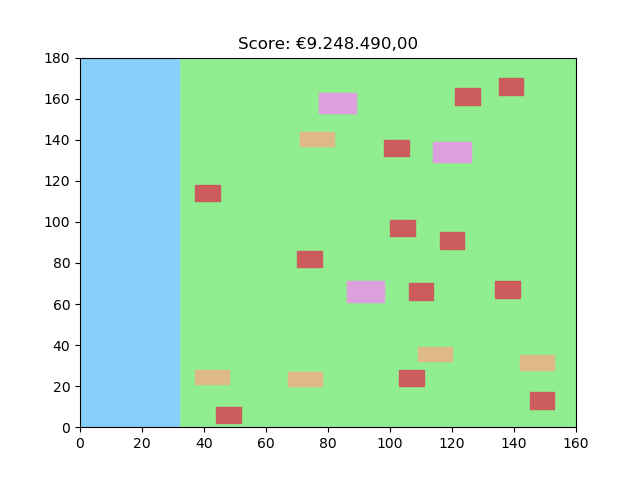
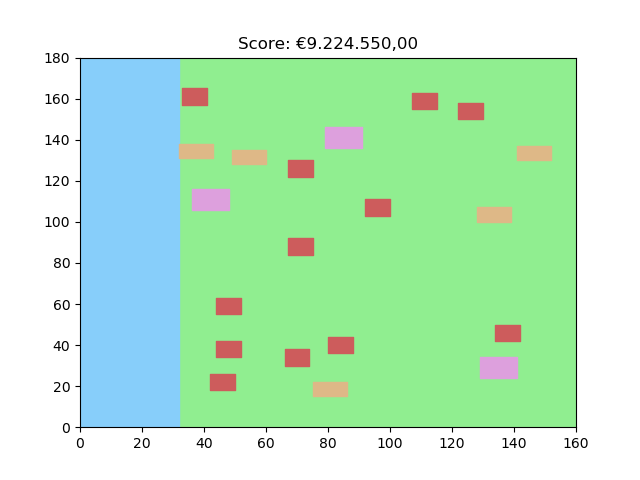
hillclimber niet veel bereikt

diff --git a/code/algorithms/hillclimber.py b/code/algorithms/hillclimber.py
@@ -15,7 +15,7 @@ from code.helpers.score import scorecalculator
 from code.helpers.visualize import visualise
 from code.helpers.builder import waterbuilder, housebuilder
 from code.helpers.location import location_checker
-from code.classes.objects import *
+from code.classes.objects import Borders
 
 def hillclimber_algorithm(iterations, water_layout, max_houses):
 
@@ -41,27 +41,29 @@ def hillclimber_algorithm(iterations, water_layout, max_houses):
         temp_neighbourhood = deepcopy(neighbourhood)
 
         # choose a random house
-        random_house = rd.choice(temp_neighbourhood)
-
-        while random_house.name == "WATER":
-            random_house = rd.choice(temp_neighbourhood)
+        random_house = rd.choice([h for h in temp_neighbourhood if h.name != "WATER"])
+        temp_neighbourhood.remove(random_house)
 
         # choose a random new location for this house
         random_x = rd.randrange(random_house.free_area, (Borders().maxX - random_house.free_area - random_house.width))
         random_y = rd.randrange(random_house.free_area, (Borders().maxY - random_house.free_area - random_house.width))
         random_house.x0 = random_x
         random_house.y0 = random_y
-        random_house.x1 = random_house.free_area + random_x
-        random_house.y1 = random_house.free_area + random_y
+        random_house.x1 = random_house.width + random_x
+        random_house.y1 = random_house.length + random_y
+        random_house.coordinates = (random_x, random_y)
+
+        temp_neighbourhood.append(random_house)
 
         # use location checker to check whether it is allowed to place the house here
-        while location_checker(random_house, temp_neighbourhood) == False:
+        """while location_checker(random_house, temp_neighbourhood) == False:
             random_x = rd.randrange(random_house.free_area, (Borders().maxX - random_house.free_area - random_house.width))
             random_y = rd.randrange(random_house.free_area, (Borders().maxY - random_house.free_area - random_house.width))
             random_house.x0 = random_x
             random_house.y0 = random_y
-            random_house.x1 = random_house.free_area + random_x
-            random_house.y1 = random_house.free_area + random_y
+            random_house.x1 = random_house.width + random_x
+            random_house.y1 = random_house.length + random_y
+            random_house.coordinates = (random_x, random_y)"""
         
         # if OK, place the house on this new location
 
@@ -73,13 +75,14 @@ def hillclimber_algorithm(iterations, water_layout, max_houses):
 
         # compare the score of the old neighbourhood to the new one, choose the best one
         if new_score > score:
-            neighbourhood = temp_neighbourhood
-            score = new_score
+            neighbourhood = deepcopy(temp_neighbourhood)
+            score = deepcopy(new_score)
 
     # save results in csv file
     df_hillclimber = pd.DataFrame(table, columns = ["iteration", "max_houses", "old_score", "new_score"])
     df_hillclimber.to_csv("results/" + str(iterations) + "-" + str(max_houses) + "-hillclimber.csv")
 
+    # create a plot of the progress
     plt.plot(df_hillclimber.iteration, df_hillclimber.old_score)
     plt.savefig("results/hillclimber_diagram.png")
     plt.close
